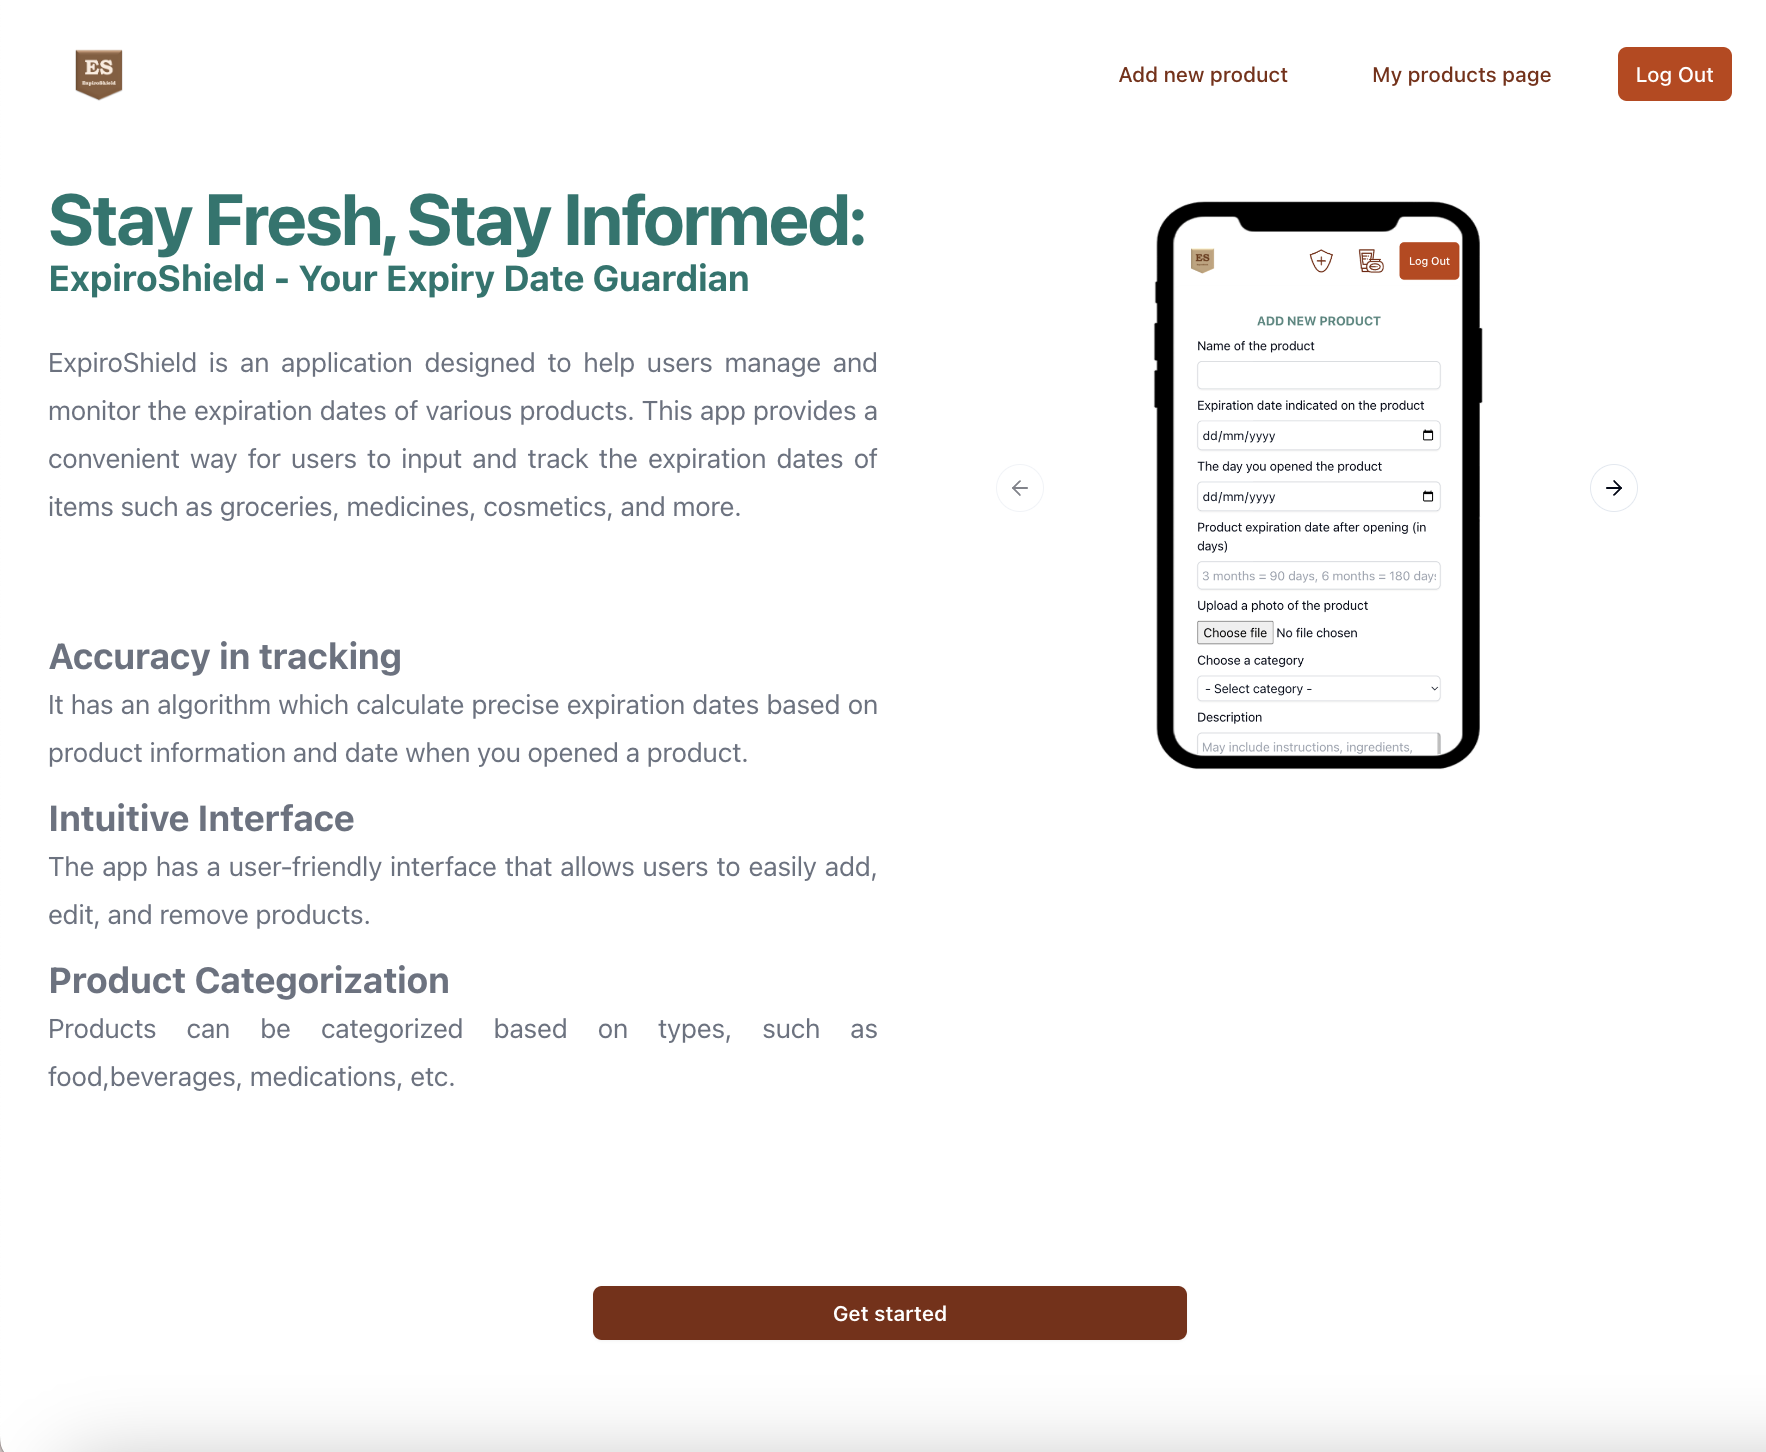
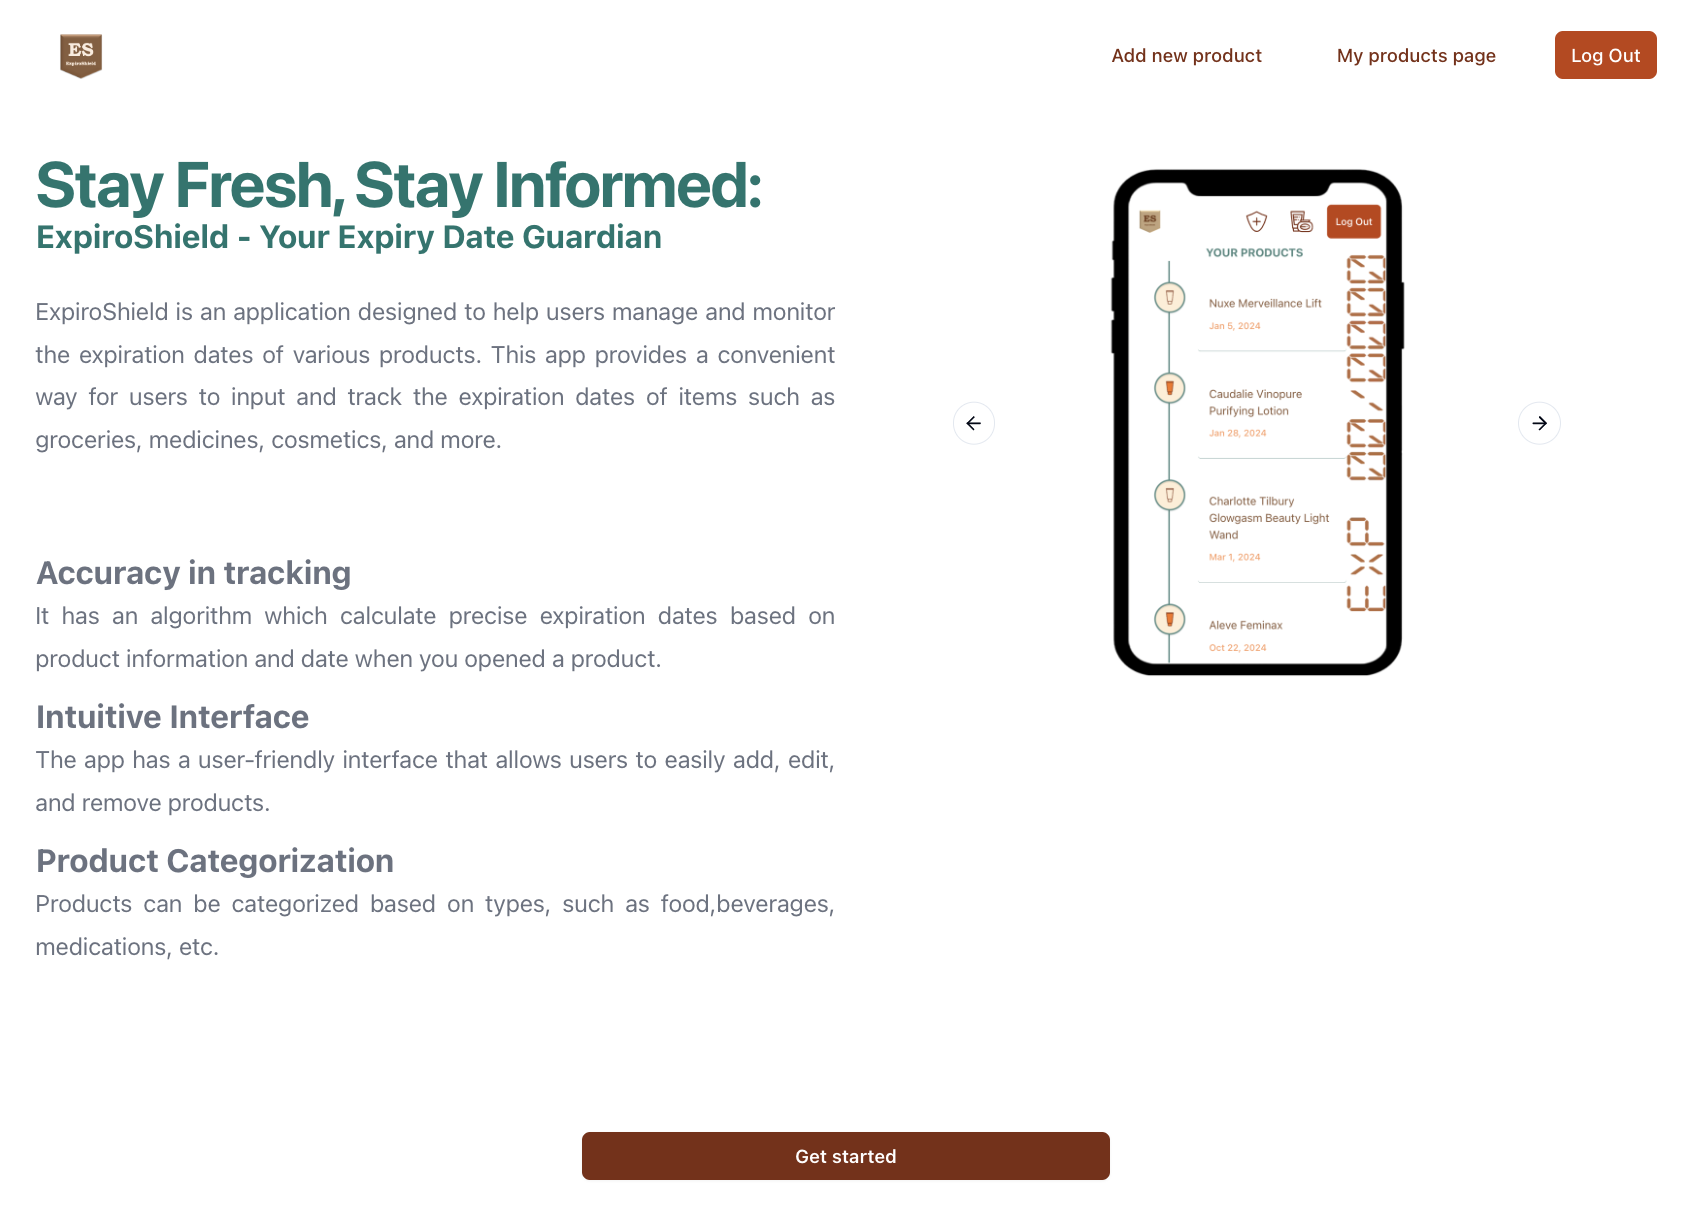
added information to the README.md

diff --git a/README.md b/README.md
@@ -1,16 +1,38 @@
-### Hi there 👋
+### 🪐 Welcome to my corner of the coding universe
 
-<!--
-**alenamosk/alenamosk** is a ✨ _special_ ✨ repository because its `README.md` (this file) appears on your GitHub profile.
+I'm a friendly psychologist turned web developer, having traded couches for keyboards and analysis for algorithms.
 
-Here are some ideas to get you started:
+Fresh off completing full-stack bootcamp, I'm diving into an exciting journey where newly-gained coding skills meet real-world experiences.
 
-- 🔭 I’m currently working on ...
-- 🌱 I’m currently learning ...
-- 👯 I’m looking to collaborate on ...
-- 🤔 I’m looking for help with ...
-- 💬 Ask me about ...
-- 📫 How to reach me: ...
-- 😄 Pronouns: ...
-- ⚡ Fun fact: ...
--->
+### ⚙ Things I code with
+
+- **Languages:** TypeScript, JavaScript
+- **Front-End Development:** HTML, CSS, React.js, Next.js.
+- **Back-End Development:** Express.js, SQLite, Prisma.
+
+### ⭐ The project I have worked on a lot
+
+**ExpiroShield**
+
+**The main goal of the application** is to help users in tracking and organizing the expiration dates of different products.
+
+**Features**:
+
+- **Chronological Timeline:** Displays products in chronological order, highlighting expiration dates from soonest to newest.
+
+- **Advanced Expiry Calculation:** Calculates precise expiration dates based on product details and the opening date.
+
+- **Efficient Product Management:** Easily add, edit, and delete product information. The system automatically generates individual pages for each product, allowing users to upload photos, provide descriptions, select categories, and assign importance.
+
+- **Expiration Status Sections:** Includes an archive for expired products and a "About to Expire" section, providing quick access to products that will expire in the next two weeks. Keep your inventory organized and stay ahead of expirations.
+
+- **Responsive design:** Enjoy seamless usage on any device. The interface adapts to different screen sizes for a user-friendly experience across devices.
+
+**Tech Stack:**
+Frontend: Next.js, React, TypeScript.<br>
+Backend: Prisma ORM, Express.<br>
+Styling: Tailwind CSS, Shadcn.
+
+<img src="asset/ExpiroShield_homepage.png" style="width: 400px; height: 300px;">
+
+### 📬 Reach me at <a href="www.linkedin.com/in/alena-moskaeva">LinkedIn</a>&nbsp;&nbsp;&nbsp;&nbsp;
